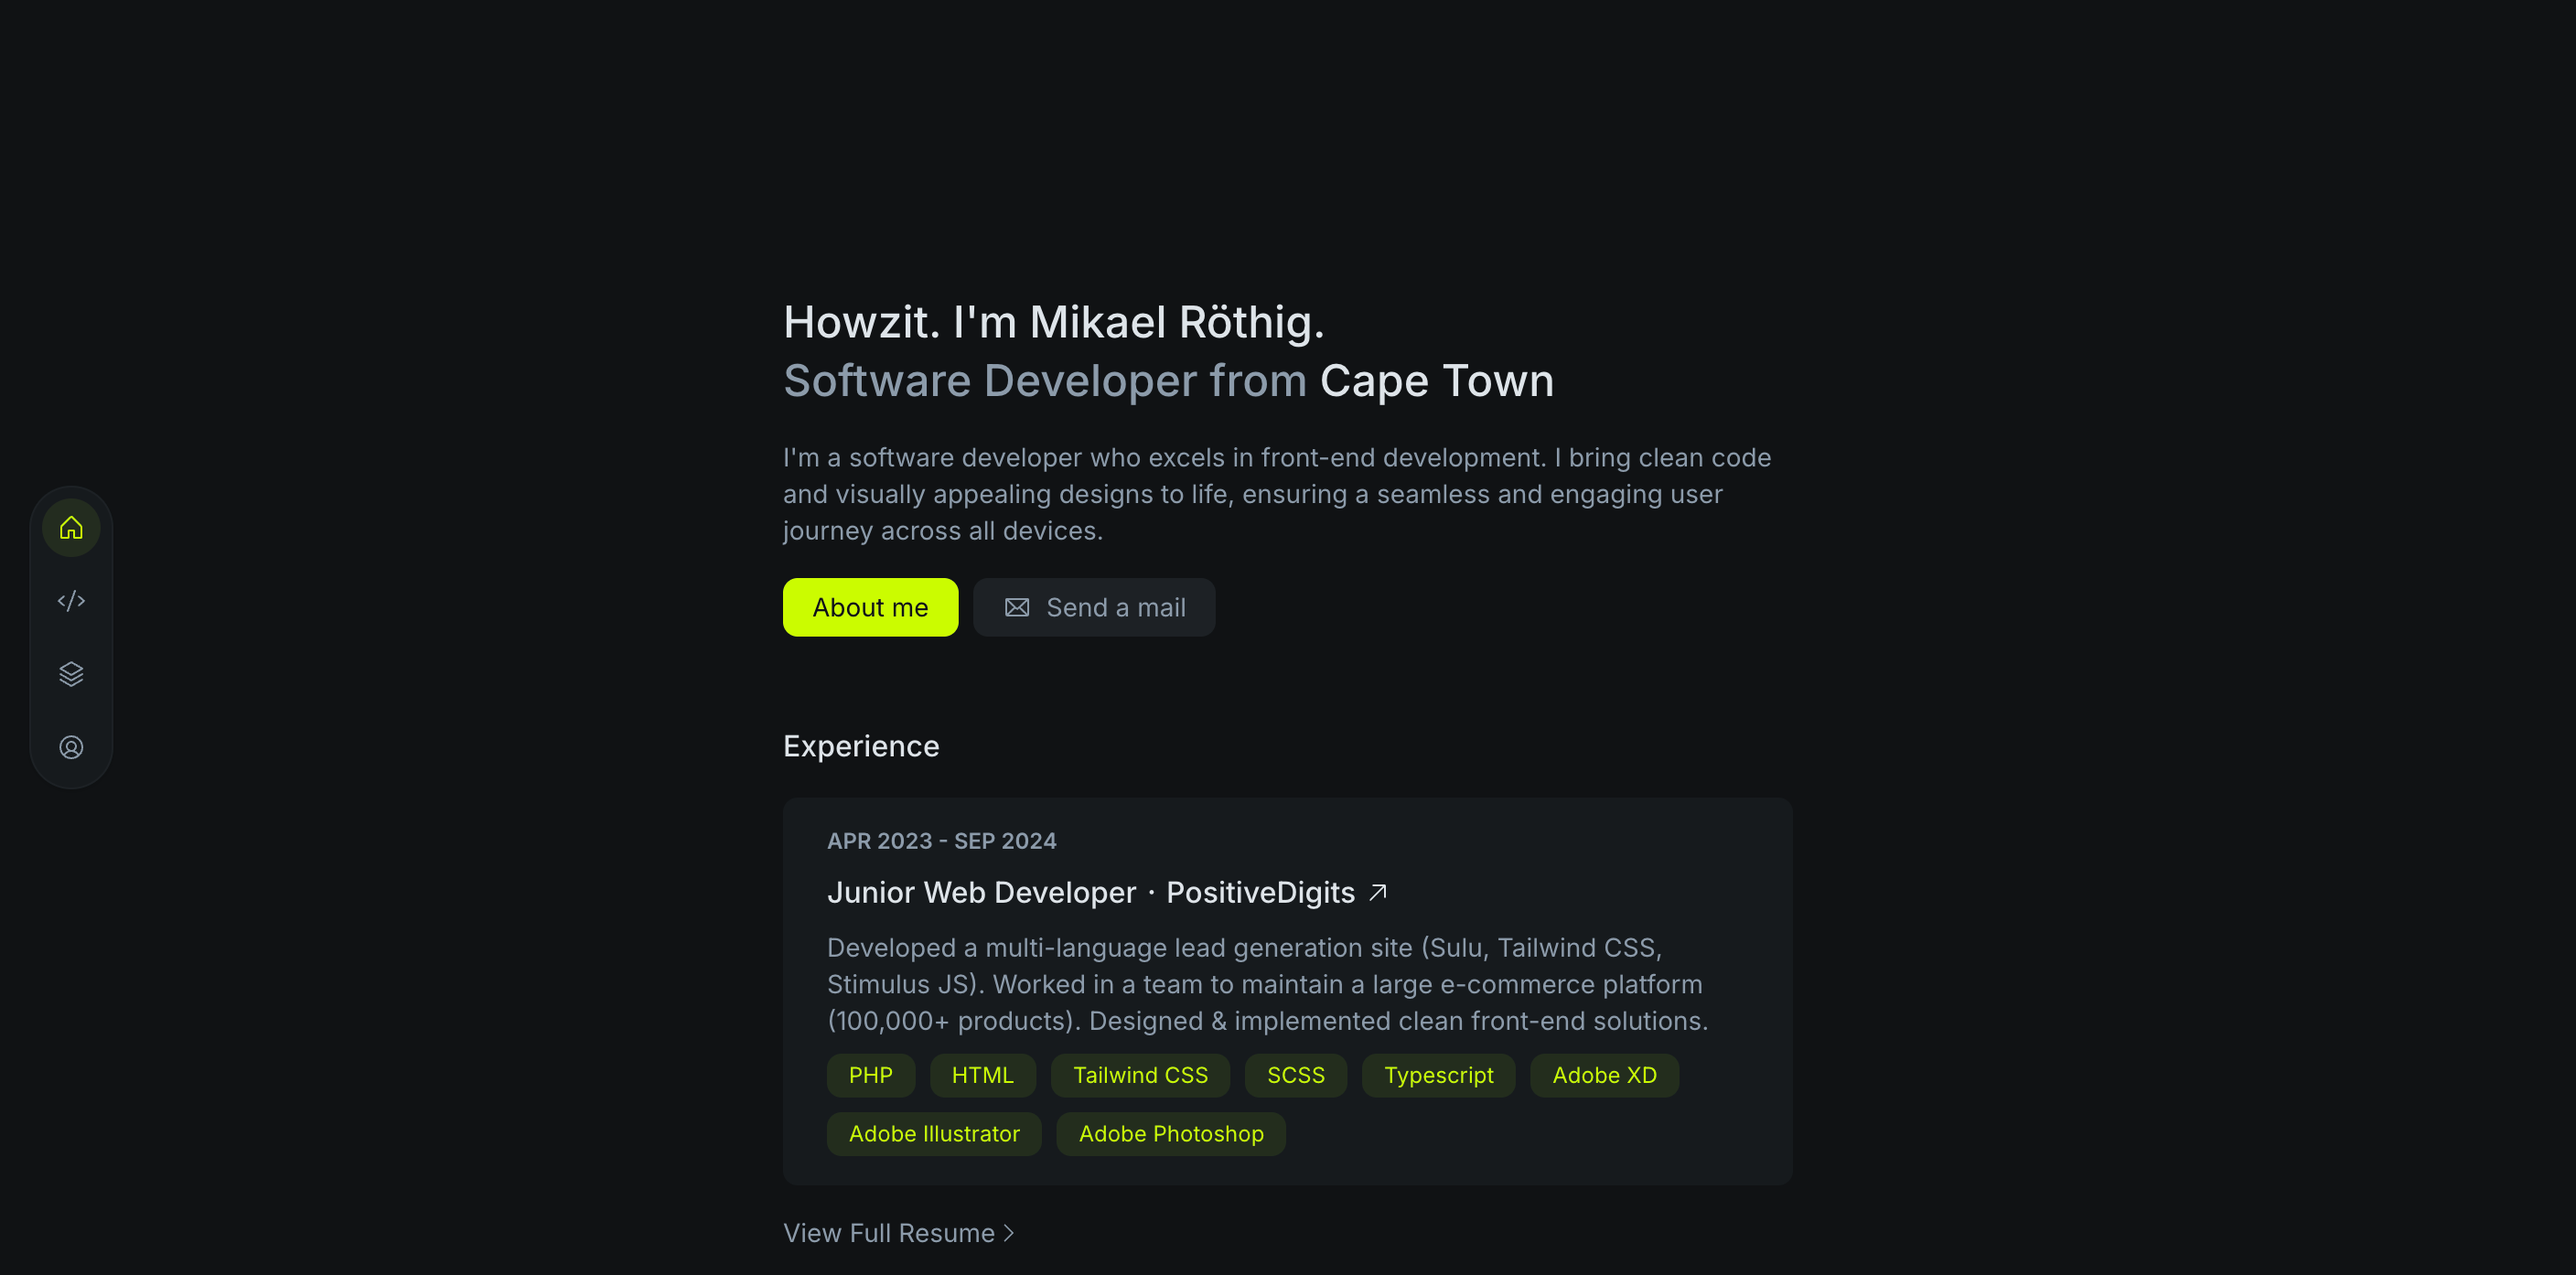
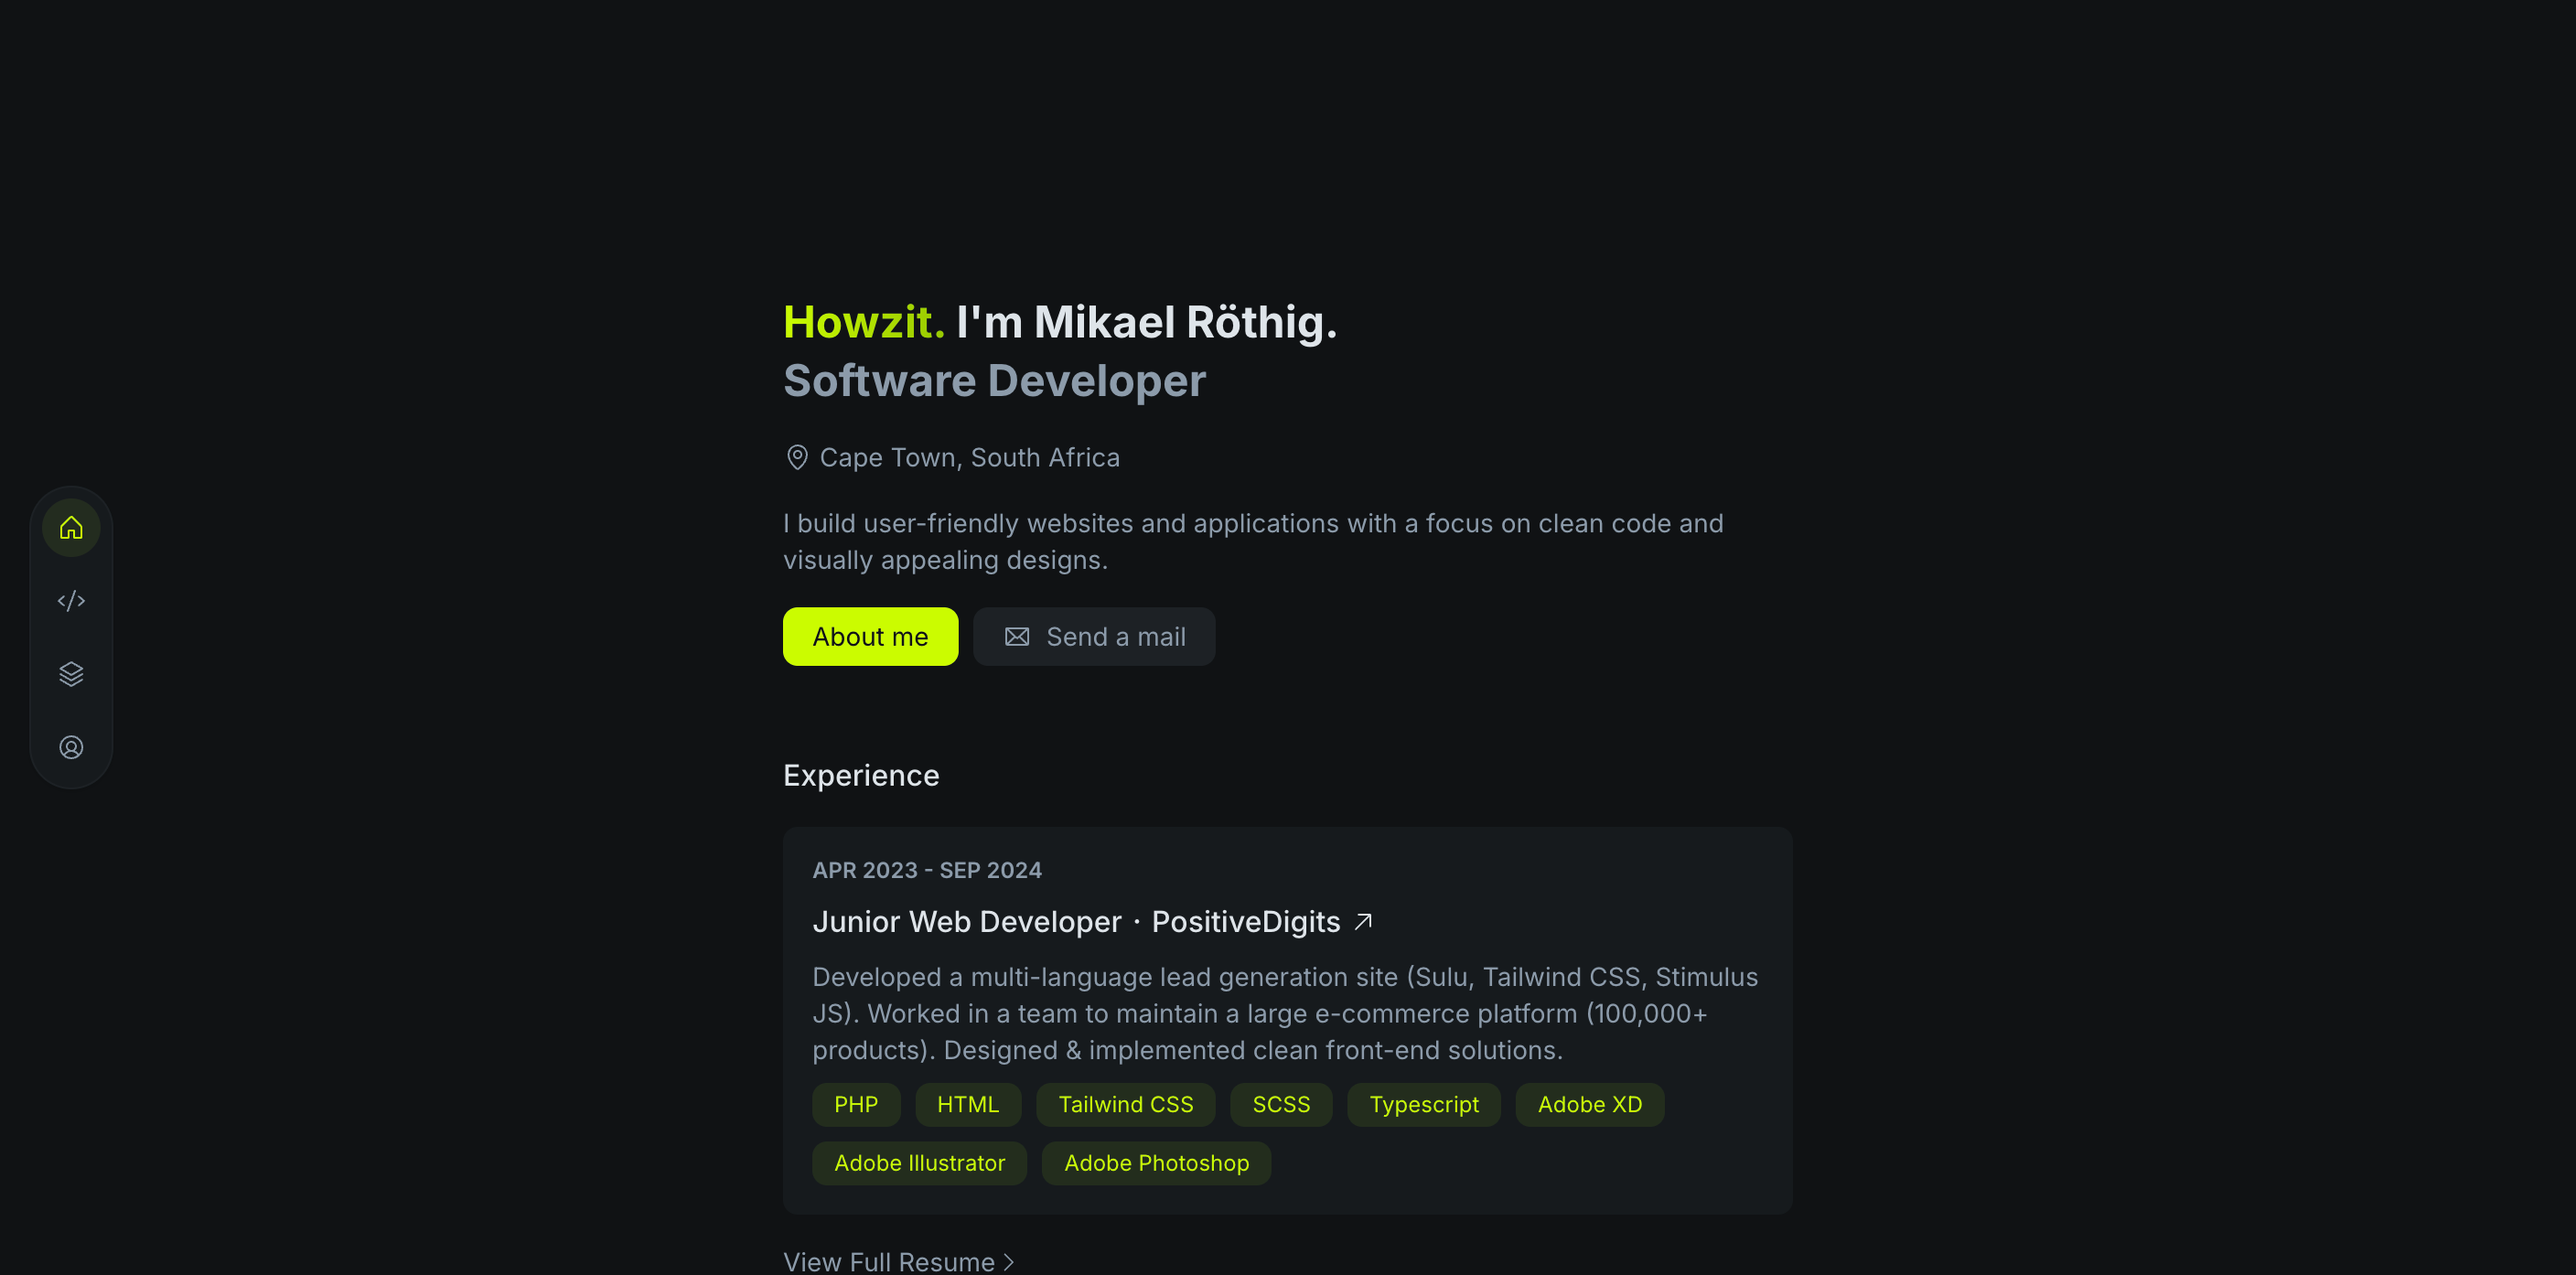
Updated index and about pages, updated h1 styling, adjusted layout padding on mobile

diff --git a/src/styles/tailwind.css b/src/styles/tailwind.css
@@ -8,7 +8,7 @@
     }
 
     h1 {
-        @apply pb-4 text-2xl font-medium text-text-primary;
+        @apply pb-4 text-2xl font-bold text-text-primary;
     }
 
     h2 {
